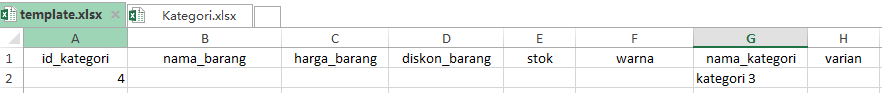
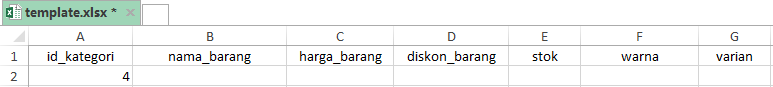
fixs crud barang

diff --git a/resources/views/barang/importexcel.blade.php b/resources/views/barang/importexcel.blade.php
@@ -30,7 +30,7 @@
                                                    Buka file <b>"template.xlsx"</b> kemudian isi data sesuai aturan di bawah ini
                                                </li>
                                                <li>
-                                                   isi <b>id_kategori</b> sesuai dengan <b>id kategori</b> di file <b>"kategori.xlsx"</b>, jangan isikan id lain selain id yang tercantum pada file <b>"kategori.xlsx"</b>, kemudian isi <b>nama_kategori</b> sesuai dengan sesuai dengan nama kategori yang anda pilih id nya. untuk lebih jelas lihat gambar di bawah ini
+                                                   isi <b>id_kategori</b> sesuai dengan <b>id kategori</b> di file <b>"kategori.xlsx"</b>, jangan isikan id lain selain id yang tercantum pada file <b>"kategori.xlsx"</b>. untuk lebih jelas lihat gambar di bawah ini
                                                </li><br>
                                                <img src="{{url('img/web/dvina.PNG')}}">
                                                <br><br>

diff --git a/resources/views/barang/index.blade.php b/resources/views/barang/index.blade.php
@@ -77,6 +77,7 @@
                                         <th>No</th>
                                         <th>Kode</th>
                                         <th>Nama Barang</th>
+                                        <th>Kategori</th>
                                         <th>Harga</th>
                                         <th>Diskon</th>
                                         <th>Warna</th>
@@ -92,7 +93,8 @@
                                     <tr>
                                    		<td>{{$i}}</td>
                                    		<td>{{$row->kode}}</td>
-                                   		<td>{{$row->barang}}</td>
+                                        <td>{{$row->barang}}</td>
+                                        <td>{{$row->kategori}}</td>
                                         <td>{{$row->harga}}</td>
                                         <td>{{$row->diskon}}</td>
                                         <td><b>{{$row->warna}}</b></td>

diff --git a/app/Http/Controllers/Admin/Barangcontroller.php b/app/Http/Controllers/Admin/Barangcontroller.php
@@ -14,7 +14,9 @@ class Barangcontroller extends Controller
 {
     public function index()
     {
-        $barang = DB::table('tb_barangs')->orderBy('idbarang','desc')->paginate(50);
+        $barang = DB::table('tb_barangs')
+                ->join('tb_kategoris', 'tb_barangs.idkategori','=','tb_kategoris.id')
+                ->orderBy('idbarang','desc')->paginate(50);
         return view('barang/index',['barang'=>$barang]);
     }
 

diff --git a/database/migrations/2018_10_11_070236_barangs.php b/database/migrations/2018_10_11_070236_barangs.php
@@ -21,8 +21,7 @@ class Barangs extends Migration
             $table->string('harga');
             $table->string('diskon');            
             $table->string('stok');
-            $table->string('warna');            
-            $table->string('kategori');                        
+            $table->string('warna');                        
         });
     }
 

diff --git a/app/Imports/BarangImport.php b/app/Imports/BarangImport.php
@@ -53,7 +53,7 @@ class BarangImport implements ToCollection, WithHeadingRow
                 'harga' => $row['harga_barang'],
                 'diskon' => $row['diskon_barang'],
                 'stok' => $row['stok'],
-                'warna' => $row['warna'],
+                'warna' => $row['warna']
             ]);
         }
     }
